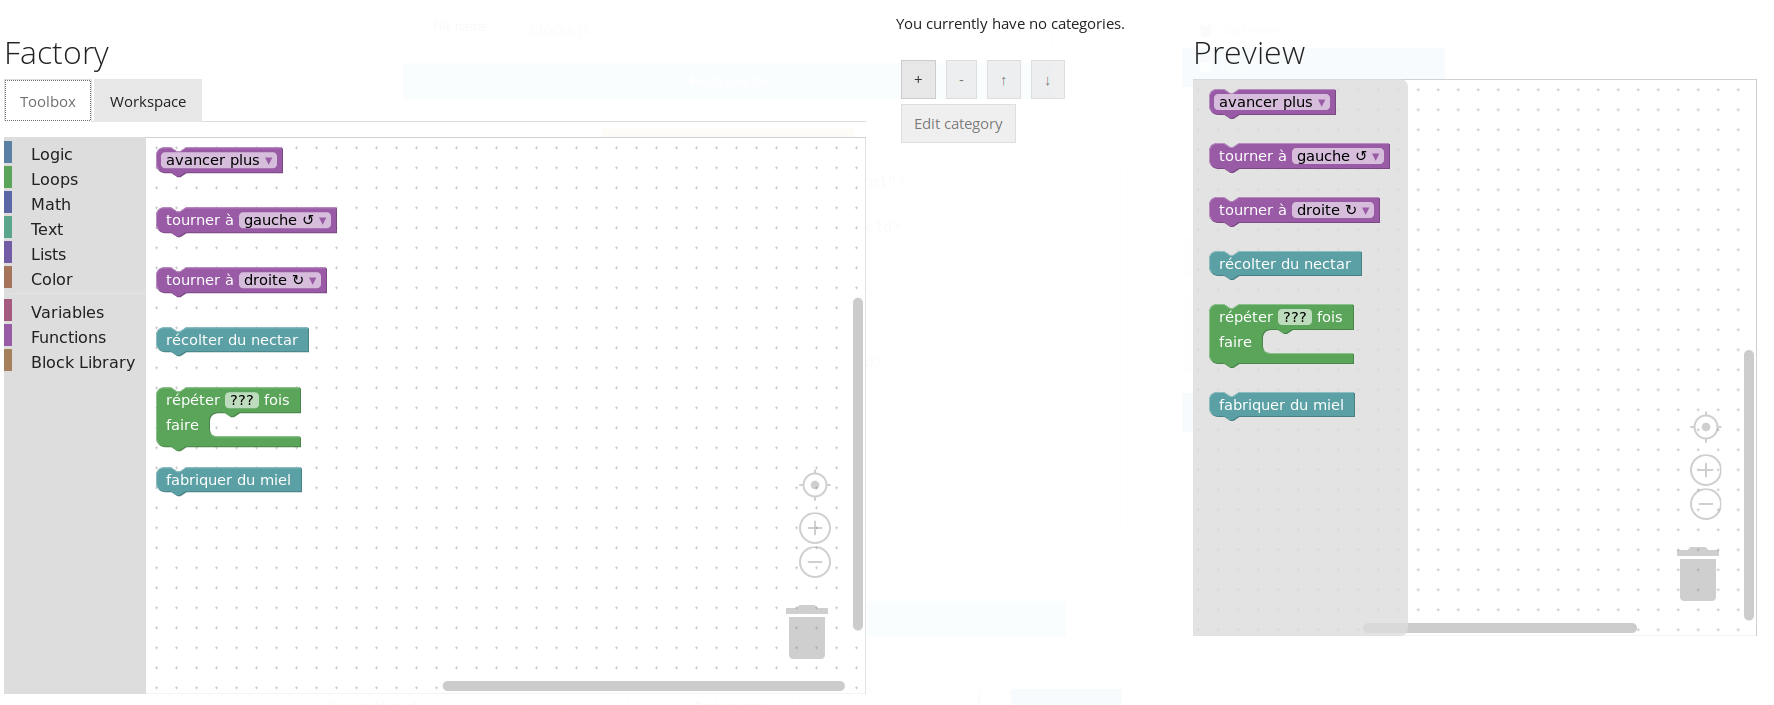
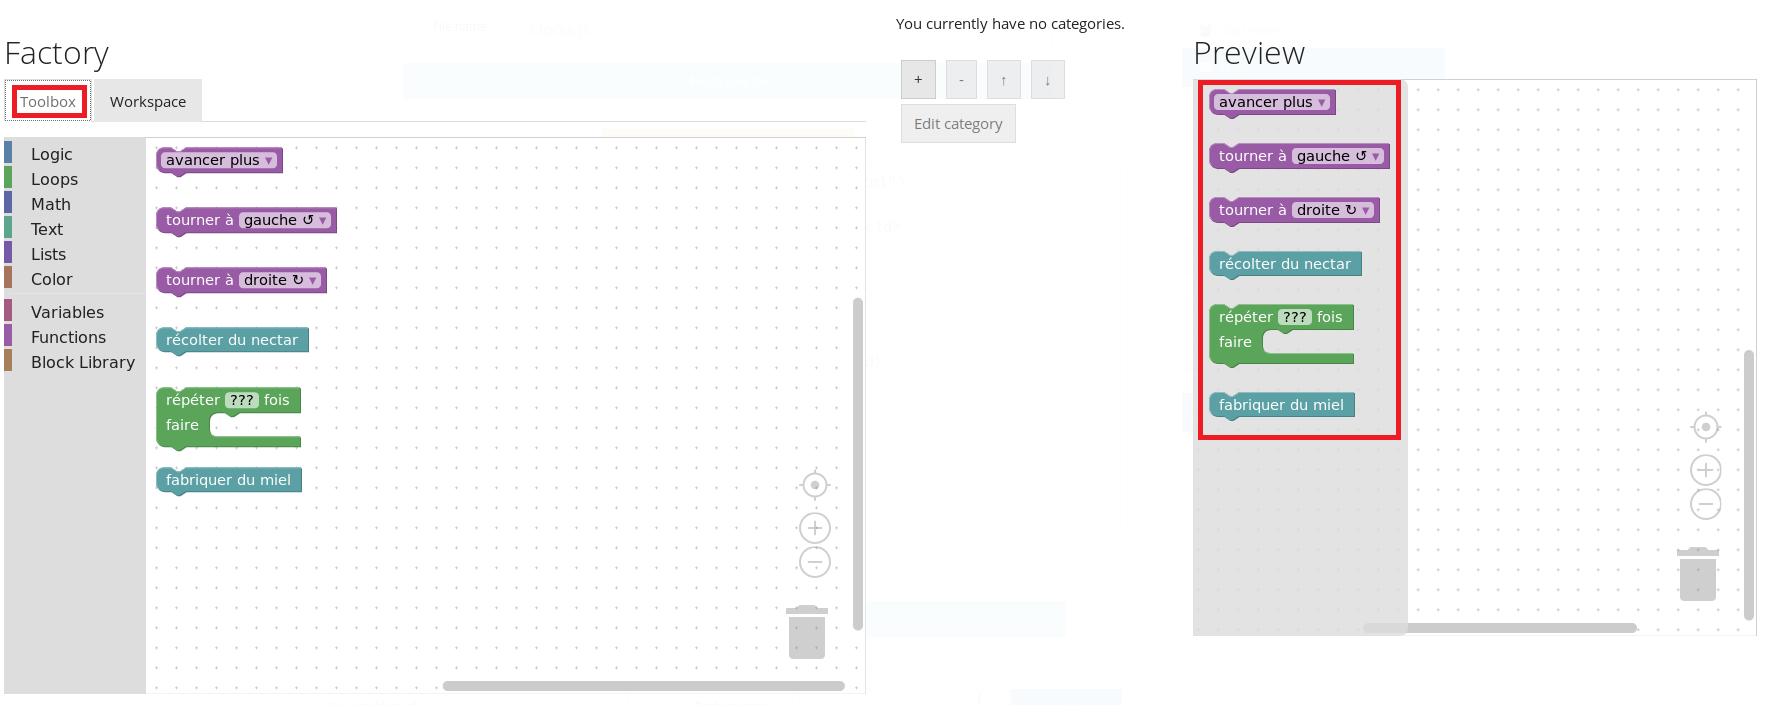
blockly end

Changed region(s): [[0.6511, 0.5929, 0.8061, 0.6241], [0.0, 0.0936, 0.062, 0.1872], [0.6821, 0.0936, 0.8061, 0.1248]]

diff --git a/presentation-blockly/index.html b/presentation-blockly/index.html
@@ -28,7 +28,7 @@
         <section id="titre">
             <h1>OpenWeek 2018</h1>
             <h2>Une introduction à Blockly</h2>
-            <a href="https://openweek.github.io/presentation-python/index.html" target="_blank">https://openweek.github.io/presentations/presentation-blockly/index.html</a>
+            <a href="https://openweek.github.io/presentations/presentation-blockly/index.html" target="_blank">https://openweek.github.io/presentations/presentation-blockly/index.html</a>
             <br>
             <br>
             <small>Bastien Nothomb - <a href="mailto:bastien.nothomb@student.uclouvain.be" target="_blank">bastien.nothomb@student.uclouvain.be</a></small>
@@ -38,12 +38,13 @@
             <h1>Objectif du projet</h1>
             <ul>
                 <li class="fragment">Réaliser des exercices visuels</li>
-                <li class="fragment">Pour des enfants de secondaire</li>
+                <li class="fragment">Pour de jeunes enfants</li>
                 <li class="fragment">Afin d'apprendre à programmer en s'amusant</li>
             </ul>
         </section>
         
-	    <section id="intro-1">
+        
+        <section id="intro-1">
             <h1>Blockly</h1>
             <ul>
                 <li class="fragment">Langage de programmation visuel</li>
@@ -56,15 +57,17 @@
         
         <section id="intro-2">
             <h1>Blockly</h1>
-            <img style='height: 75%; width: 75%;' class="fragment" src="blockly_task.png">
+            <img style='height: 75%; width: 75%;' src="blockly_task.png">
         </section>
+        
         
         <section id="task-1">
             <h1>Une tâche Blockly</h1>
             <h2>se compose de:</h2>
             <ul>
-                <li class="fragment">un subproblem de type blockly</li>
-                <img style='height: 100%; width: 100%;' class="fragment" src="blockly_id.png">
+                <li class="fragment">un subproblem de type blockly
+                    <img style='height: 100%; width: 100%;' src="blockly_id.png">
+                </li>                
                 <li class="fragment">une toolbox: les blocs dont disposent les étudiants</li>
                 <li class="fragment">un workspace: espace dans lequel organiser les blocs pour répondre à l’exercice (peut être pré-rempli)</li>
                 <li class="fragment">et plein d'autres choses</li>
@@ -73,15 +76,14 @@
               
         <section id="task-2">
             <h1>La toolbox Blockly</h1>
-            <li>TODO: encadrer en rouge la toolbox </li>
-            <img style='height: 85%; width: 85%;' class="fragment" src="blockly_toolbox.png">
+            <img style='height: 85%; width: 85%;' src="blockly_toolbox.png">
         </section>
         
         <section id="task-3">
             <h1>Le workspace Blockly</h1>
-            <li>TODO: encadrer en rouge le workspace</li>
-            <img style='height: 85%; width: 85%;' class="fragment" src="blockly_workspace.png">
+            <img style='height: 85%; width: 85%;' src="blockly_workspace.png">
         </section>
+        
         
         <section id="custom-1">
             <h1>Les blocs customs</h1>
@@ -107,9 +109,53 @@
             <img style='height: 100%; width: 100%;' src="blockly_block_developertools.png"> 
         </section>
         
-        <section id="inginious-1">
-            <h1>L'architecture inginious</h1>           
+        <section id="custom-3">
+            <h1>Les blocs customs</h1>
+            <table style="width:100%">
+                <tr>
+                    <td class="fragment">            
+                        <li>Ce code définit le bloc de manière visuelle</li>
+                        <img style='height: 70%; width: 70%;' src="blockly_block_custom_visual.png">
+                    </td>
+                    <td class="fragment">
+                        <li>Ce code définit le code qui sera généré par le bloc</li>
+                        <img style='height: 70%; width: 70%;' src="blockly_block_custom_code.png">
+                    </td>
+                </tr>
+            </table>
+            <li class="fragment">
+                Ces deux codes seront simplement à copier/coller dans le fichier public/blocks.js de la tâche INGInious
+                <img style='height: 70%; width: 70%;' src="blockly_block_custom_file.png">
+            </li> 
+            </ul>            
         </section>
+        
+        
+        <section id="inginious-1">
+            <h1>L'architecture inginious</h1>
+            <img style='height: 50%; width: 50%;' src="inginious_file.png">           
+        </section>
+        
+        <section id="inginious-2">
+            <h1>Le fichier run</h1>
+            <ul>
+                <li class="fragment">C’est le fichier qui exécute les tests sur le serveur d’INGInious</li>
+            </ul>           
+        </section>
+        
+        <section id="inginious-3">
+            <h1>Le fichier task.yaml</h1>
+            <ul>
+                <li class="fragment">
+                    Vous pouvez directement configurer la tâche sur votre instance d’INGInious qui tourne sur votre vm, pour récupérer un task.yaml bien formaté.
+                    <img style='height: 50%; width: 50%;' src="inginious_task.png">
+                </li>
+                <li class="fragment">
+                    Faites attention que le type soit bien blockly
+                </li>
+            </ul>           
+        </section>
+        
         
         <section id="setup-1">
             <h1>Installation de Blockly</h1>
@@ -152,6 +198,7 @@
                 <li class="fragment">Installer la VM</li>
                 <li class="fragment">Lancer et comprendre les tâches existantes</li>
                 <li class="fragment">Créer ses propres tâches (simple puis avec visuel)</li>
+                <li class="fragment">Les mettre sur <a href="https://github.com/OpenWeek/openweek-blockly" target="_blank">ce repo</a></li>
             </ul>           
         </section> 
      
